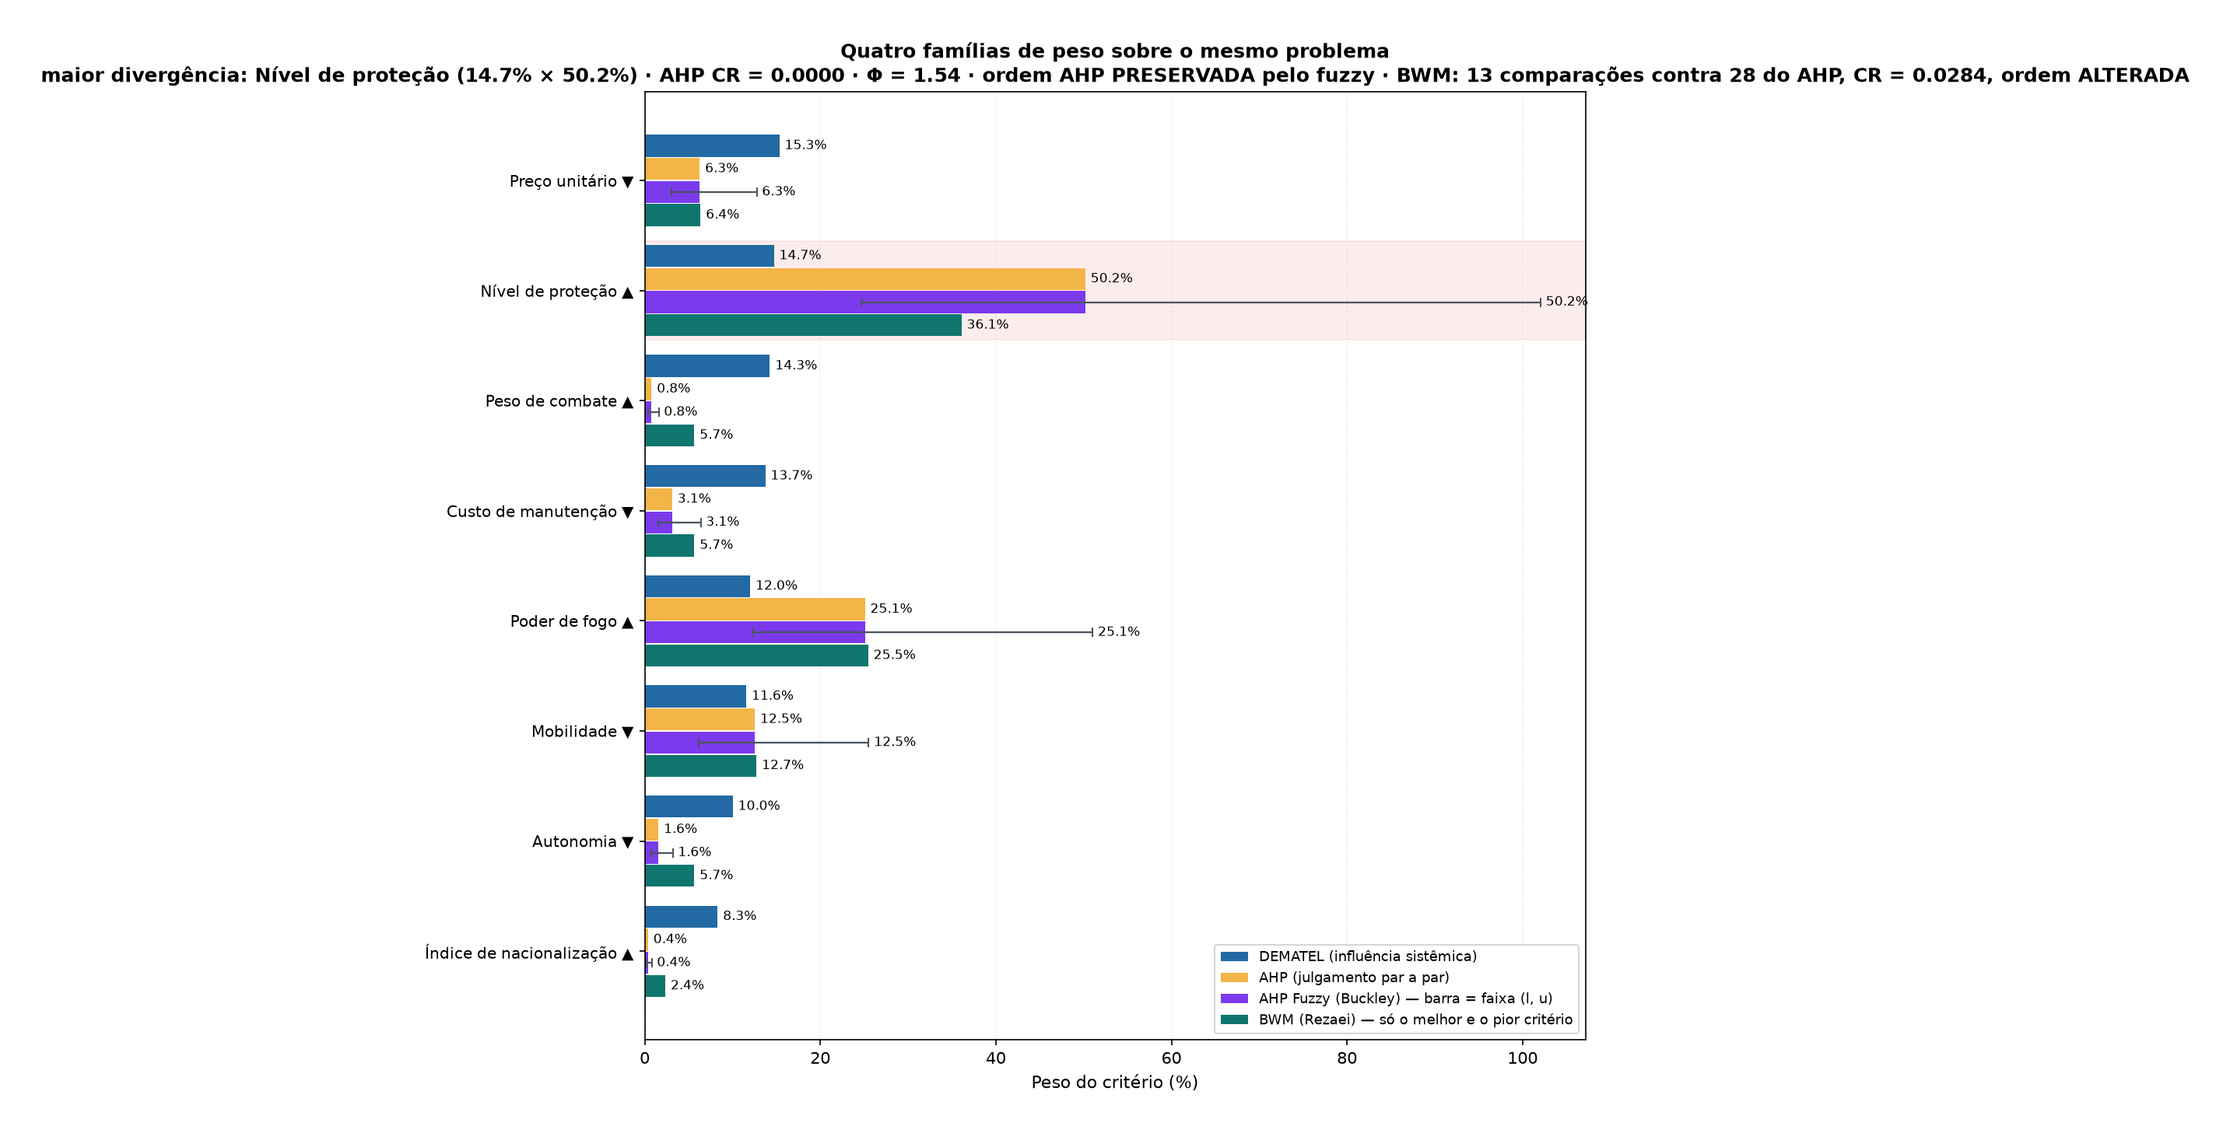
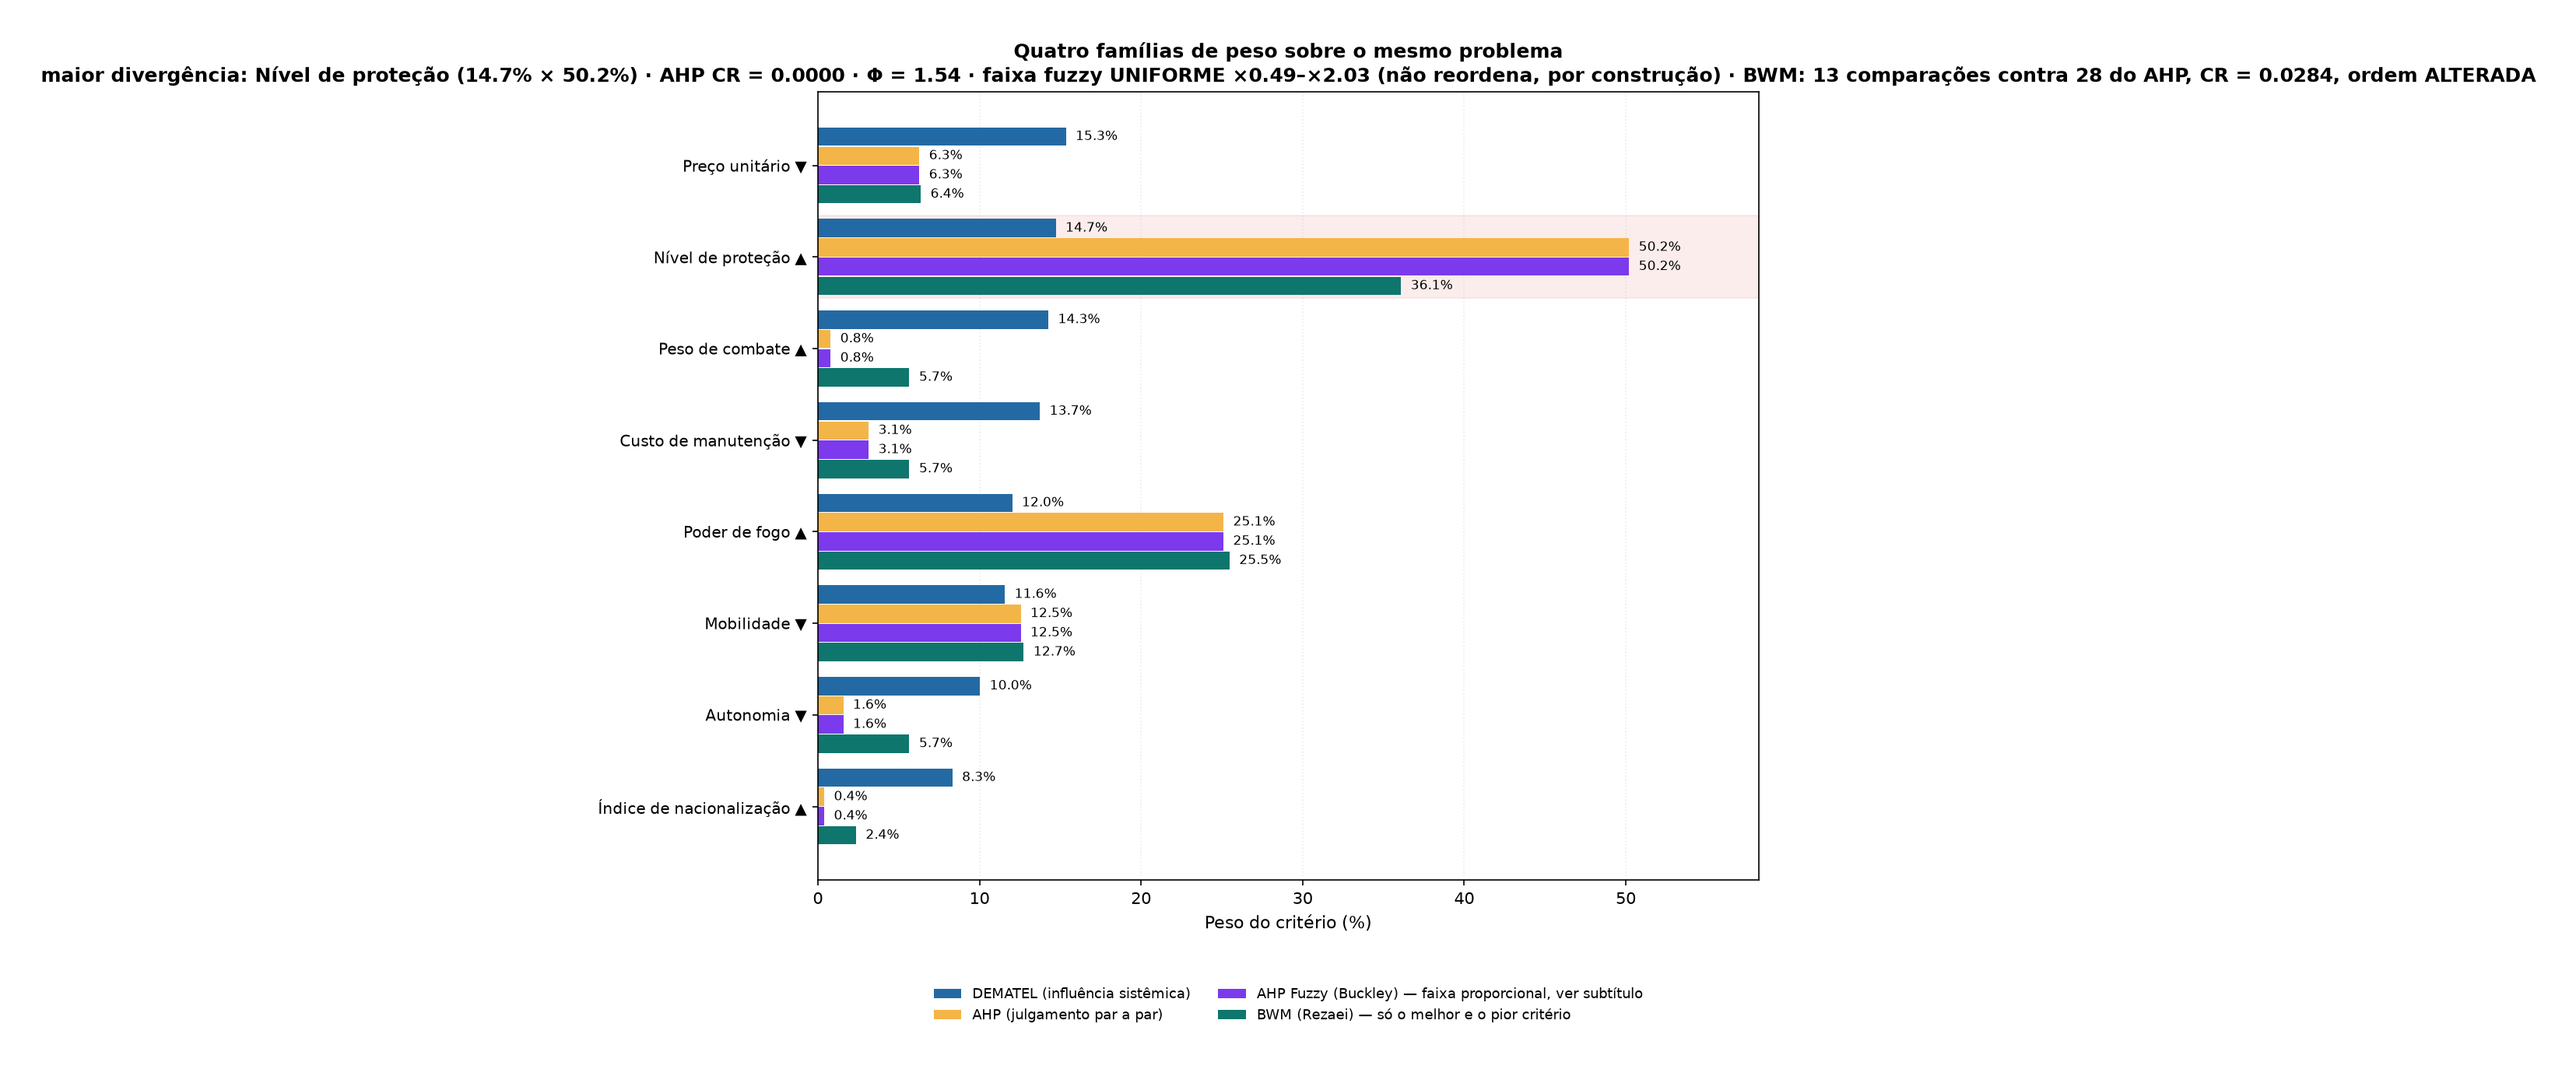
Corrige a faixa do AHP Fuzzy no grafico de pesos
A faixa (l, u) nao e normalizada (soma 2,03 contra 1,00 do modal) e
era plotada no eixo dos pesos: afirmava um criterio com 102% do total
e esticava o eixo ate la, espremendo as barras em 34 dos 38 casos.

Com fator de fuzzificacao escalar, l/m e u/m sao constantes, entao a
faixa e um fator global e nao pode reordenar nada — o 'ordem
PRESERVADA' do subtitulo era tautologia. O grafico passa a tratar os
dois regimes e o eixo e fixado pelas barras.

Changed region(s): [[0.0, 0.0306, 0.9937, 0.8865], [0.3416, 0.8253, 0.7142, 0.9782], [0.6832, 0.2445, 0.7142, 0.2751]]

diff --git a/public/foundations/pipeline/gerar_graficos.py b/public/foundations/pipeline/gerar_graficos.py
@@ -470,6 +470,17 @@ def pesos_dematel_ahp(conn, id_caso, destino):
     base = -desloc * (n_fam - 1) / 2
     pos = {f: base + i * desloc for i, f in enumerate(
         ["dematel", "ahp"] + (["fuzzy"] if tem_fuzzy else []) + (["bwm"] if tem_bwm else []))}
+    # O eixo é fixado pelas BARRAS — nunca pelos extremos da faixa fuzzy, que não
+    # são normalizados e chegam a 2× o maior peso. Calculado aqui, antes de
+    # desenhar, para que a faixa possa ser cortada com indicação e os rótulos
+    # fiquem dentro da área útil.
+    maiores = [pd_.max(), pa.max()]
+    if tem_fuzzy:
+        maiores.append(np.array([r["p_fuzzy"] for r in linhas]).max() * 100)
+    if tem_bwm:
+        maiores.append(np.array([r["p_bwm"] for r in linhas]).max() * 100)
+    x_max = max(maiores) * 1.16
+
     fig, ax = plt.subplots(figsize=(10.4, 0.92 * len(rot) + 3.2))
     ax.barh(y + pos["dematel"], pd_, height=altura, color=COR_DEMATEL,
             label="DEMATEL (influência sistêmica)")
@@ -485,19 +496,57 @@ def pesos_dematel_ahp(conn, id_caso, destino):
         fl = np.array([r["f_l"] for r in linhas]) * 100
         fu = np.array([r["f_u"] for r in linhas]) * 100
         phi = linhas[0]["fuzziness"]
-        ax.barh(y + pos["fuzzy"], pf, height=altura, color=COR_FUZZY,
-                label="AHP Fuzzy (Buckley) — barra = faixa (l, u)")
-        # xerr assimétrico: distâncias ATÉ l e ATÉ u, nunca os valores absolutos.
-        # Passar (l, u) direto desenharia a barra a partir da origem.
-        ax.errorbar(pf, y + pos["fuzzy"],
-                    xerr=[np.maximum(pf - fl, 0), np.maximum(fu - pf, 0)],
-                    fmt="none", ecolor="#4b5563", elinewidth=1.1, capsize=3, zorder=5)
-        for i in range(len(rot)):
-            ax.text(fu[i] + 0.6, y[i] + pos["fuzzy"], f"{pf[i]:.1f}%", va="center", fontsize=8)
-        # Ordem preservada entre AHP e AHP Fuzzy? É a pergunta que o gráfico responde.
+
+        # Σm = 1, mas Σl ≈ 0,49 e Σu ≈ 2,03: a faixa NÃO é normalizada. Desenhá-la
+        # no eixo das barras (que somam 100%) afirmava que um critério pode valer
+        # 102% do peso total, e esticava o eixo até lá, espremendo todas as barras
+        # no primeiro terço — em 34 dos 38 casos (#BUG-057).
+        #
+        # Pior que o eixo: com fator de fuzzificação ESCALAR, l/m e u/m são os
+        # MESMOS para todo critério. A barra de erro desenhava, por critério, o que
+        # é um fator global — e uma faixa que escala todos os pesos igualmente não
+        # pode reordenar nada. O "ordem PRESERVADA" do subtítulo era tautologia.
+        razao_l, razao_u = fl / np.maximum(pf, 1e-12), fu / np.maximum(pf, 1e-12)
+        uniforme = bool(np.ptp(razao_l) < 1e-9 and np.ptp(razao_u) < 1e-9)
+
+        rotulo_fuzzy = ("AHP Fuzzy (Buckley) — faixa proporcional, ver subtítulo"
+                        if uniforme else "AHP Fuzzy (Buckley) — barra = faixa (l, u)")
+        ax.barh(y + pos["fuzzy"], pf, height=altura, color=COR_FUZZY, label=rotulo_fuzzy)
+
         mesma_ordem = np.array_equal(np.argsort(-pa), np.argsort(-pf))
-        sub = (f" · Φ = {phi:.2f} · ordem AHP {'PRESERVADA' if mesma_ordem else 'ALTERADA'} "
-               f"pelo fuzzy")
+        if uniforme:
+            # Faixa uniforme não discrimina critério: informa-se o multiplicador uma
+            # vez, em vez de repetir a mesma proporção em cada barra.
+            sub = (f" · Φ = {phi:.2f} · faixa fuzzy UNIFORME ×{razao_l[0]:.2f}–×{razao_u[0]:.2f}"
+                   f" (não reordena, por construção)")
+            for i in range(len(rot)):
+                ax.text(pf[i] + 0.6, y[i] + pos["fuzzy"], f"{pf[i]:.1f}%",
+                        va="center", fontsize=8)
+        else:
+            # Faixa variável por critério: aí ela informa, e é desenhada. O eixo é
+            # fixado pelas BARRAS, e a faixa que o excede ganha seta de continuação.
+            # A faixa é cortada no limite do eixo; quem passa dele ganha "▸" e o
+            # valor real anotado, em vez de esticar o eixo ou vazar da moldura.
+            fu_vis = np.minimum(fu, x_max * 0.97)
+            ax.errorbar(pf, y + pos["fuzzy"],
+                        xerr=[np.maximum(pf - fl, 0), np.maximum(fu_vis - pf, 0)],
+                        fmt="none", ecolor="#4b5563", elinewidth=1.1, capsize=3,
+                        zorder=5, clip_on=True)
+            sub = (f" · Φ = {phi:.2f} · ordem AHP "
+                   f"{'PRESERVADA' if mesma_ordem else 'ALTERADA'} pelo fuzzy")
+            for i in range(len(rot)):
+                if fu[i] > x_max * 0.97:
+                    ax.annotate("▸", (x_max * 0.975, y[i] + pos["fuzzy"]),
+                                va="center", ha="left", fontsize=9, color="#4b5563",
+                                annotation_clip=False)
+                    txt = f"{pf[i]:.1f}%  (u={fu[i]:.0f}%)"
+                else:
+                    txt = f"{pf[i]:.1f}%"
+                # O rótulo fica logo após a BARRA, como nas outras famílias, com
+                # fundo branco: a faixa passa atrás dele sem o tornar ilegível.
+                ax.text(pf[i] + 0.6, y[i] + pos["fuzzy"], txt, va="center", fontsize=8,
+                        zorder=6, bbox=dict(boxstyle="square,pad=0.08", fc="white",
+                                            ec="none", alpha=0.85))
 
     sub_bwm = ""
     if tem_bwm:
@@ -525,9 +574,14 @@ def pesos_dematel_ahp(conn, id_caso, destino):
                  f"({pd_[div]:.1f}% × {pa[div]:.1f}%) · AHP CR = {cr:.4f}"
                  + ("" if cr < 0.10 else "  ⚠ INCONSISTENTE") + sub + sub_bwm,
                  fontweight="bold")
-    ax.legend(loc="lower right", fontsize=8.5)
+    ax.set_xlim(0, x_max)
+    # Legenda ABAIXO do eixo: dentro da área de dados ela era atravessada pela
+    # faixa fuzzy do último critério, que é justamente o mais estreito.
+    ax.legend(loc="upper center", bbox_to_anchor=(0.5, -0.10 - 0.02 * (len(rot) > 6)),
+              ncol=2, fontsize=8.5, frameon=False)
     ax.grid(axis="x", alpha=0.25, linestyle=":")
     ax.set_axisbelow(True)
+    fig.subplots_adjust(bottom=0.16 + 0.01 * len(rot))
     return _salvar(fig, destino / "pesos_dematel_ahp.png")
 
 
